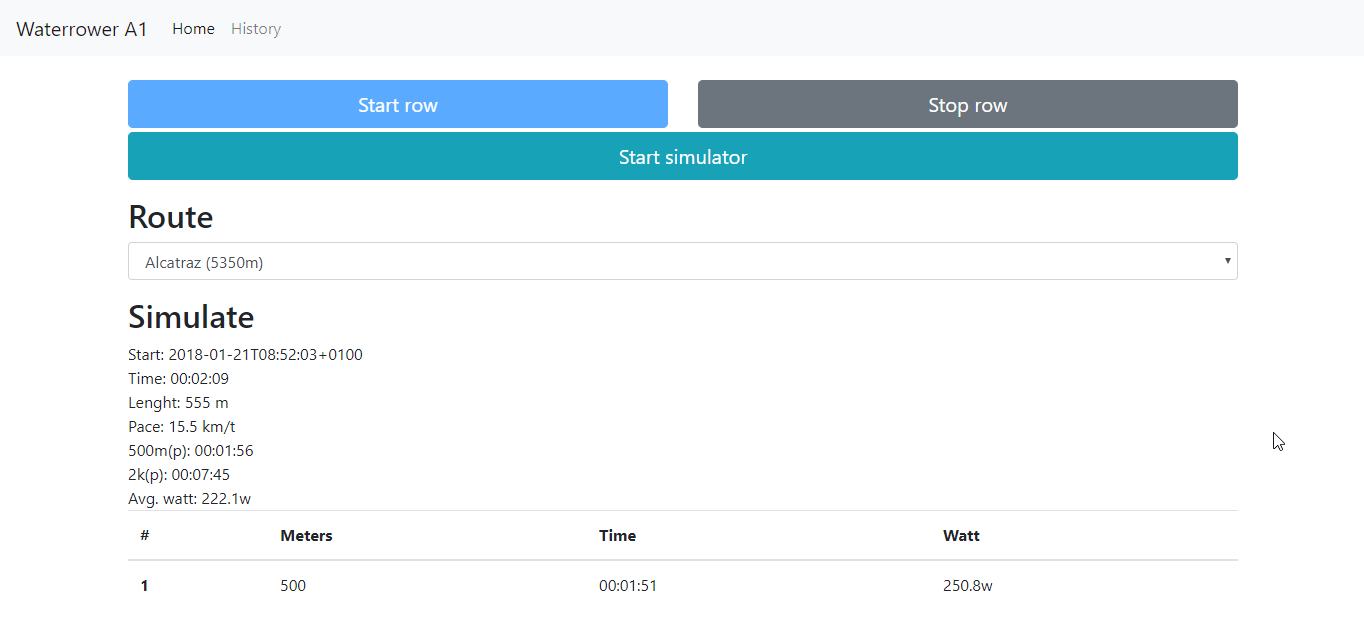
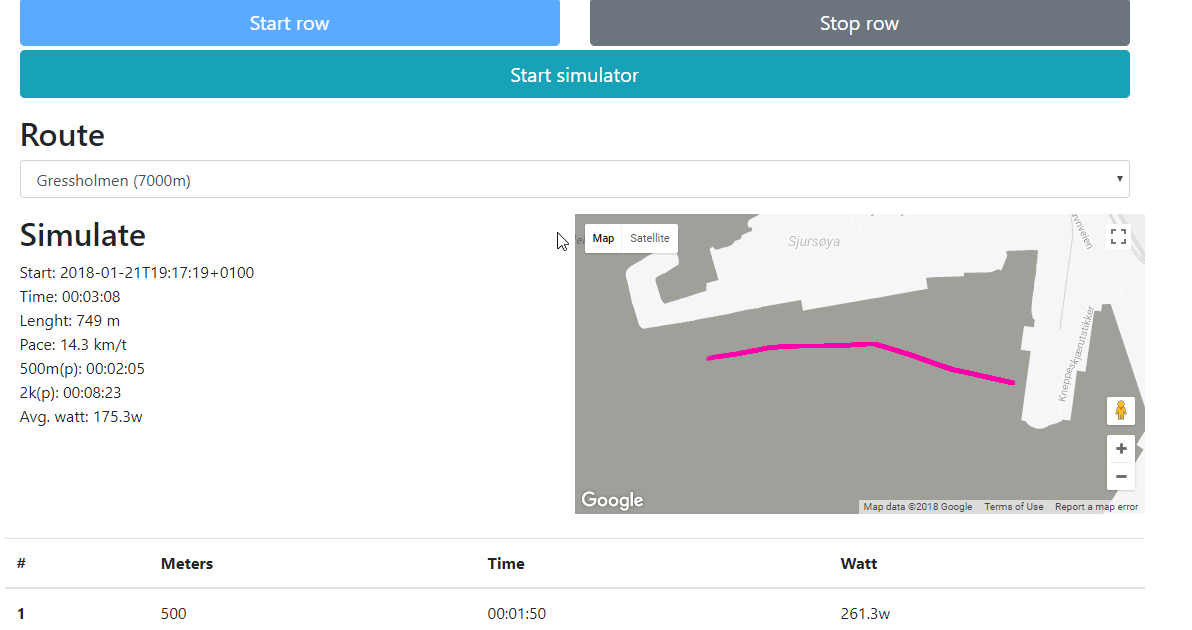
Adding "live" view

diff --git a/public/js/main.js b/public/js/main.js
@@ -1,6 +1,21 @@
 const UPDATE_FREQ = 1000;
 var timeOut;
 var run = false;
+var liveMap;
+var liveBounds;
+var livePoints = [];
+
+function initMap() {
+    liveMap = new google.maps.Map(document.getElementById('live-map'), {
+        //center: {lat: 59.88458761, lng: 10.76115131},
+        zoom: 8,
+        maxZoom: 16
+    });
+    var styles = [{"featureType": "landscape", "stylers": [{"saturation": -100}, {"lightness": 65}, {"visibility": "on"}]}, {"featureType": "poi", "stylers": [{"saturation": -100}, {"lightness": 51}, {"visibility": "simplified"}]}, {"featureType": "road.highway", "stylers": [{"saturation": -100}, {"visibility": "simplified"}]}, {"featureType": "road.arterial", "stylers": [{"saturation": -100}, {"lightness": 30}, {"visibility": "on"}]}, {"featureType": "road.local", "stylers": [{"saturation": -100}, {"lightness": 40}, {"visibility": "on"}]}, {"featureType": "transit", "stylers": [{"saturation": -100}, {"visibility": "simplified"}]}, {"featureType": "administrative.province", "stylers": [{"visibility": "off"}]}, {"featureType": "water", "elementType": "labels", "stylers": [{"visibility": "on"}, {"lightness": -25}, {"saturation": -100}]}, {"featureType": "water", "elementType": "geometry", "stylers": [{"hue": "#ffff00"}, {"lightness": -25}, {"saturation": -97}]}];
+    liveBounds = new google.maps.LatLngBounds();
+    liveMap.set('styles', styles);
+
+}
 
 $(document).ready(function(){
     //ugly ulgy
@@ -16,6 +31,20 @@ $(document).ready(function(){
         e.preventDefault();
         $.get( "/row/start", function() {
            get_rowInfo(true, "Rowing");
+           initMap();
+            livePoints = [];
+            var poly = new google.maps.Polyline({
+                // use your own style here
+                path: livePoints,
+                strokeColor: "#FF00AA",
+                strokeOpacity: .7,
+                strokeWeight: 4
+            });
+
+            poly.setMap(liveMap);
+
+            // fit bounds to track
+            liveMap.fitBounds(liveBounds);
             $("#startSimulator").attr('disabled','disabled');
             $(this).attr('disabled','disabled');
         });
@@ -26,6 +55,21 @@ $(document).ready(function(){
         e.preventDefault();
         $.get("/row/simulate", function() {
             get_rowInfo(true, "Simulate");
+            initMap();
+            livePoints = [];
+            var poly = new google.maps.Polyline({
+                // use your own style here
+                path: livePoints,
+                strokeColor: "#FF00AA",
+                strokeOpacity: .7,
+                strokeWeight: 4
+            });
+
+            poly.setMap(liveMap);
+
+            // fit bounds to track
+            liveMap.fitBounds(liveBounds);
+
             $("#startRow").attr('disabled','disabled');
             $(this).attr('disabled','disabled');
         });
@@ -154,6 +198,24 @@ function get_rowInfo(continues, title){
         var html = getHtml(title, data);
         if (html) {
             $('#table-content').html(html);
+            $('#laps').html(getLapHtml(title, data));
+                var lat = data.gps.lat;
+                var lon = data.gps.lon;
+                var p = new google.maps.LatLng(lat, lon);
+                livePoints.push(p);
+                liveBounds.extend(p);
+            var poly = new google.maps.Polyline({
+                // use your own style here
+                path: livePoints,
+                strokeColor: "#FF00AA",
+                strokeOpacity: .7,
+                strokeWeight: 4
+            });
+
+            poly.setMap(liveMap);
+
+            // fit bounds to track
+            liveMap.fitBounds(liveBounds);
         }
     }).done(function(){
         if (run) {
@@ -181,8 +243,13 @@ function getHtml(label, json) {
     html += '<div class="row">2k(p): ' + fmtMSS(parseInt(json.towKPace)) +'</div>';
     html += '<div class="row">Avg. watt: ' + Math.round( parseFloat(json.watt)* 10) / 10 +'w</div>';
     if(json.fileName) {
-        html += 'Actions: <div class="row"><a id="" href="/sessions/' + json.fileName + '"><i class="material-icons">file_download</i> <a class="strava" href="/strava/upload/' + json.name +'"><i aria-hidden="true" title="Upload to strava" class="material-icons">cloud_upload</i></a></div>';
+        html += '<div class="row">Actions: <a id="" href="/sessions/' + json.fileName + '"><i class="material-icons">file_download</i> <a class="strava" href="/strava/upload/' + json.name +'"><i aria-hidden="true" title="Upload to strava" class="material-icons">cloud_upload</i></a></div>';
     }
+    return html + "</div>"
+}
+
+function getLapHtml(label, json) {
+    var html = '';
     if (parseInt(json.totalLaps) > 0) {
         html += '<div class="row"><div class="table-responsive"> <table class="table"><thead><tr><th>#</th><th>Meters</th><th>Time</th><th>Watt</th>';
         html += '</tr></thead><tbody>';
@@ -195,7 +262,7 @@ function getHtml(label, json) {
         );
         html += "</tbody></table></div></div>"
     }
-    return html + "</div>"
+    return html;
 }
 
 var getUrlParameter = function getUrlParameter(sParam) {

diff --git a/models/rowSession.js b/models/rowSession.js
@@ -17,13 +17,15 @@ const WATT_RATION = 2.80;
 var sensor;
 var runSimulator = false;
 
-function RowSession(status) {
+function RowSession(status, route) {
     this.status = status;
     this.stroke = 0;
     this.counter = 0;
     this.start = Date.now();
     this.raw = [];
+    this.p = null;
     this.name = sanitize(new Date().toISOString());
+    this.routeObject = route;
 }
 
 RowSession.prototype.stroke = function() {
@@ -37,7 +39,7 @@ RowSession.prototype.simulate = function() {
     var that = this;
     (function loop() {
         if(runSimulator) {
-            var rand = getRandomRowerSpeed((that.totalInMeters() % 1000) <= 500)
+            var rand = getRandomRowerSpeed((that.totalInMeters() % 1000) <= 500);
             setTimeout(function () {
                 that.increase();
                 loop();
@@ -52,7 +54,7 @@ RowSession.prototype.increase = function() {
 
 RowSession.prototype.totalLaps = function () {
     return (this.totalInMeters() / 500)|0;
-}
+};
 
 RowSession.prototype.laps = function () {
     var laps = [], totalLaps = this.totalLaps();
@@ -73,12 +75,22 @@ RowSession.prototype.laps = function () {
     }
 
     return laps;
-}
+};
 
 RowSession.prototype.increment = function() {
     this.counter = this.counter + 1;
     if (this.counter % SAMPLE_SIZE === 1) { //Total length
-        this.raw.push(Date.now())
+        this.raw.push(Date.now());
+        var rawTime = new Date(Date.now());
+        var distance = this.getLengthInMetersByClicks(6); //6 click per raw.
+            this.p = this.routeObject.nextPoint(this.p, distance.toFixed(4));
+            this.trackPoint = {
+                'lat': this.p.lat.toFixed(7),
+                'lon': this.p.lon.toFixed(7),
+                ele: 0,
+                time: rawTime.toISOString()
+            }
+
     }
 };
 
@@ -90,7 +102,7 @@ RowSession.prototype.startRow = function() {
             throw err;
         }
         //console.log("Registered event. " + value);
-        that.increase()
+        that.increase();
     });
 };
 
@@ -128,61 +140,52 @@ RowSession.prototype.stats = function() {
     stats.towKPace = this.twoKPace();
     stats.totalLaps = this.totalLaps();
     stats.laps = this.laps();
+    stats.gps = this.trackPoint;
     stats.watt = watt(this.totalTimeInSec() / this.totalInMeters());
     return stats;
-}
+};
 
 RowSession.prototype.totalInMeters = function () {
     return this.getTotalLength() / 100
-}
+};
 
 RowSession.prototype.totalTimeInSec = function () {
     return this.totalTime() / 1000
-}
+};
 
 RowSession.prototype.totalTime = function () {
     return Date.now() - this.start
-}
+};
 
 RowSession.prototype.meterPerSeconds = function () {
     return this.totalInMeters() / this.totalTimeInSec()
-}
+};
 
 RowSession.prototype.fiveHundrePace = function () {
     return 500 / this.meterPerSeconds();
-}
+};
 
 RowSession.prototype.twoKPace = function () {
     return 2000 / this.meterPerSeconds();
-}
+};
 
-RowSession.prototype.gpxFile = function () {
-    var wayPoints = [];
-    for (var i = 0; i < this.raw.length; i++) {
-
-    }
-    return createGpx(waypoints, {
-        activityName: "ROWING",
-        startTime: this.start,
-    });
-}
 
 function getRandomArbitrary(min, max) {
     return Math.random() * (max - min) + min;
-}
+};
 
 function getRandomRowerSpeed(fast) {
     return getRandomArbitrary(10, 120) * ( fast ? 0.7 : 1)
-}
+};
 
 function getClicksByMeters(meters) {
     var cm = meters * 100;
     return Math.floor(cm / RATION);
-}
+};
 
 function watt(pace) {
     return WATT_RATION / Math.pow(pace, 3);
-}
+};
 
 // export the class
 module.exports = RowSession;

diff --git a/controllers/row.js b/controllers/row.js
@@ -7,7 +7,7 @@ var express = require('express'),
     sessionService = require('../service/sessionService'),
     sanitize = require("sanitize-filename");
 
-const NOT_ROWING = new RowSession("NOT_ROWING");
+const NOT_ROWING = new RowSession("NOT_ROWING", new Route(Routes.routes[0].gps));
 
 var session = NOT_ROWING;
 
@@ -24,14 +24,19 @@ router.get('/routes', function(req, res) {
 router.get('/start', function(req, res) {
     res.setHeader('Content-Type', 'application/json');
     if (session === NOT_ROWING) {
-        session = new RowSession("ROWING");
+        var routeParam = req.query.routes;
+        if (isNaN(routeParam)) {
+            routeParam = 1;
+        }
+        var r = Routes.routes[routeParam];
+        session = new RowSession("ROWING", new Route(r.gps));
         try {
             session.startRow();
+            session.route = routeParam;
         } catch (e) {
             session = NOT_ROWING;
             console.log("Cannot start row. Look at error" + e);
         }
-
     }
     res.send(JSON.stringify(session, null, 3));
 });
@@ -39,7 +44,13 @@ router.get('/start', function(req, res) {
 router.get('/simulate', function(req, res) {
     res.setHeader('Content-Type', 'application/json');
     if (session === NOT_ROWING) {
-        session = new RowSession("SIMLATE");
+        var routeParam = req.query.routes;
+        if (isNaN(routeParam)) {
+            routeParam = 1;
+        }
+        var r = Routes.routes[routeParam];
+        session = new RowSession("SIMLATE", new Route(r.gps));
+        session.route = routeParam;
         session.simulate();
     }
     res.send(JSON.stringify(session, null, 3));

diff --git a/public/index.html b/public/index.html
@@ -79,20 +79,24 @@
     </div>
 
     <div class="row">
-        <div id ="table-content" class="col">
-            <h2>Row Session</h2>
-            <div class="row">
-                <div class ="col" >
-                </div>
-            </div>
+        <div id="table-content" class="col">
+        </div>
+        <div id="live-map" class="col">
         </div>
     </div>
+    <div class="row">
+        <div id="laps" class="col mt-4">
+        </div>
+    </div>
+
 </div>
 <!-- Latest compiled and minified JavaScript -->
 <script src="https://code.jquery.com/jquery-3.2.1.min.js" integrity="sha256-hwg4gsxgFZhOsEEamdOYGBf13FyQuiTwlAQgxVSNgt4=" crossorigin="anonymous"></script>
 <script src="https://cdnjs.cloudflare.com/ajax/libs/popper.js/1.12.9/umd/popper.min.js" integrity="sha384-ApNbgh9B+Y1QKtv3Rn7W3mgPxhU9K/ScQsAP7hUibX39j7fakFPskvXusvfa0b4Q" crossorigin="anonymous"></script>
 <script src="https://maxcdn.bootstrapcdn.com/bootstrap/4.0.0/js/bootstrap.min.js" integrity="sha384-JZR6Spejh4U02d8jOt6vLEHfe/JQGiRRSQQxSfFWpi1MquVdAyjUar5+76PVCmYl" crossorigin="anonymous"></script>
-
+<!--My map key. IP restricted -->
+<script src="https://maps.googleapis.com/maps/api/js?key=AIzaSyDPq6S4y5IOi2huNGa_4WhAPU5Hd_EW_dI&callback=initMap"
+        async defer></script>
 <!-- Latest compiled and minified JavaScript -->
 <script src="/js/main.js"></script>
 </body>

diff --git a/helpers/gpxFile.js b/helpers/gpxFile.js
@@ -69,7 +69,7 @@ GpxFile.prototype.getMetaData = function () {
             time: new Date(this.rowSession.start).toISOString()
         }
     }
-}
+};
 
 GpxFile.prototype.getRootObject = function () {
     return {

diff --git a/public/css/main.css b/public/css/main.css
@@ -2,3 +2,12 @@
     height: 150px;
     width: 100%;
 }
+
+#live-map {
+    height: 300px;
+    width: 100%;
+}
+
+#table-content {
+    height: 300px;
+}
